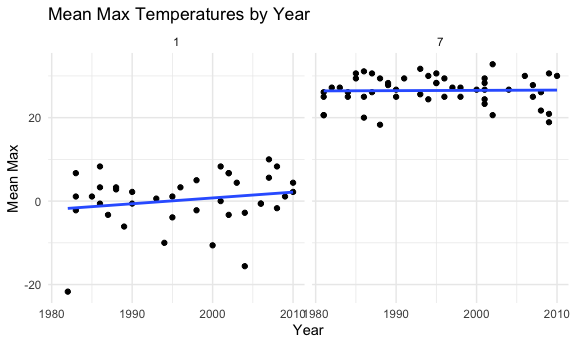
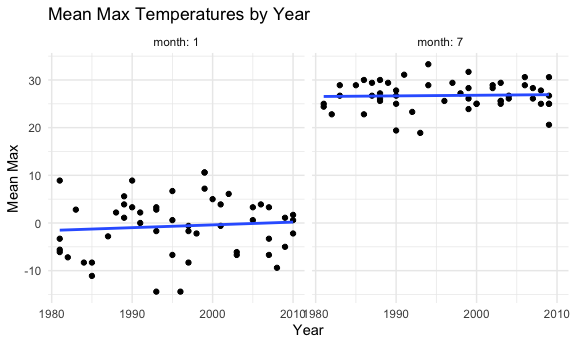
fixed the problem 2 plot with mean acitivity

diff --git a/p8105_hw3_ar4041.md b/p8105_hw3_ar4041.md
@@ -12,7 +12,9 @@ This dataset contains 1384617 rows and 15 columns.
 Observations are the level of items in order by user. There are
 user/order variables – user ID, order ID, order day, and order hour.
 There are also item variables – name, aisle, department, and some
-numeric codes. \[ADD MORE BEFORE SUBMITTING\].
+numeric codes. There’s also some information about the user’s past
+behaviors – whether or not the customer has ordered this in the past and
+days since last order.
 
 how many aisles, and which are they from?
 
@@ -292,7 +294,8 @@ ny_noaa %>%
   ggplot(aes(x = year, y = tmax_mean)) + 
   geom_point() +
   geom_smooth(method = "lm", se = FALSE) + 
-  facet_grid(. ~ month) +
+  facet_grid(. ~ month,
+             labeller = label_both) +
   theme(legend.position = "none") +
   labs(
     title = "Mean Max Temperatures by Year",
@@ -301,8 +304,52 @@ ny_noaa %>%
   )
 ```
 
-    ## `summarise()` regrouping output by 'id', 'year' (override with `.groups` argument)
+    ## `summarise()` regrouping output by 'id', 'year', 'month' (override with `.groups` argument)
 
     ## `geom_smooth()` using formula 'y ~ x'
 
 <img src="p8105_hw3_ar4041_files/figure-gfm/unnamed-chunk-2-1.png" width="90%" />
+
+While there are occasional outlier years, max January temperatures
+appear to be increasing as the years progress. July temperatures appear
+to have remained constant.
+
+``` r
+tmax_tmin_p = 
+  ny_noaa %>% 
+  slice_sample(n = 1000) %>% 
+  separate(date, into = c("year", "month", "day"), convert = TRUE) %>% 
+  mutate(
+    tmax = as.numeric(tmax)/10,
+    tmin = as.numeric(tmin)/10
+  ) %>% 
+  drop_na(tmin) %>% 
+  drop_na(tmax) %>% 
+  ggplot(aes(x = tmax, y = tmin, size = tmax)) +
+  geom_hex() +
+  labs(
+   title = "Max and Min Temperatures",
+    x = "Max Temperature",
+    y = "Min Temperature"
+  )
+
+snowfall_p = 
+  ny_noaa %>% 
+  slice_sample(n = 10000) %>% 
+  separate(date, into = c("year", "month", "day"), convert = TRUE) %>% 
+  drop_na(snow) %>% 
+  filter(snow > 0 & snow < 100) %>% 
+  ggplot(aes(x = year, fill = )) + 
+  geom_histogram() +
+  labs(
+    title = "Snowfall by Year",
+    x = "Year",
+    y = "# of Days 0-100 mm of snow"
+  )
+
+tmax_tmin_p + snowfall_p
+```
+
+    ## `stat_bin()` using `bins = 30`. Pick better value with `binwidth`.
+
+<img src="p8105_hw3_ar4041_files/figure-gfm/unnamed-chunk-3-1.png" width="90%" />
